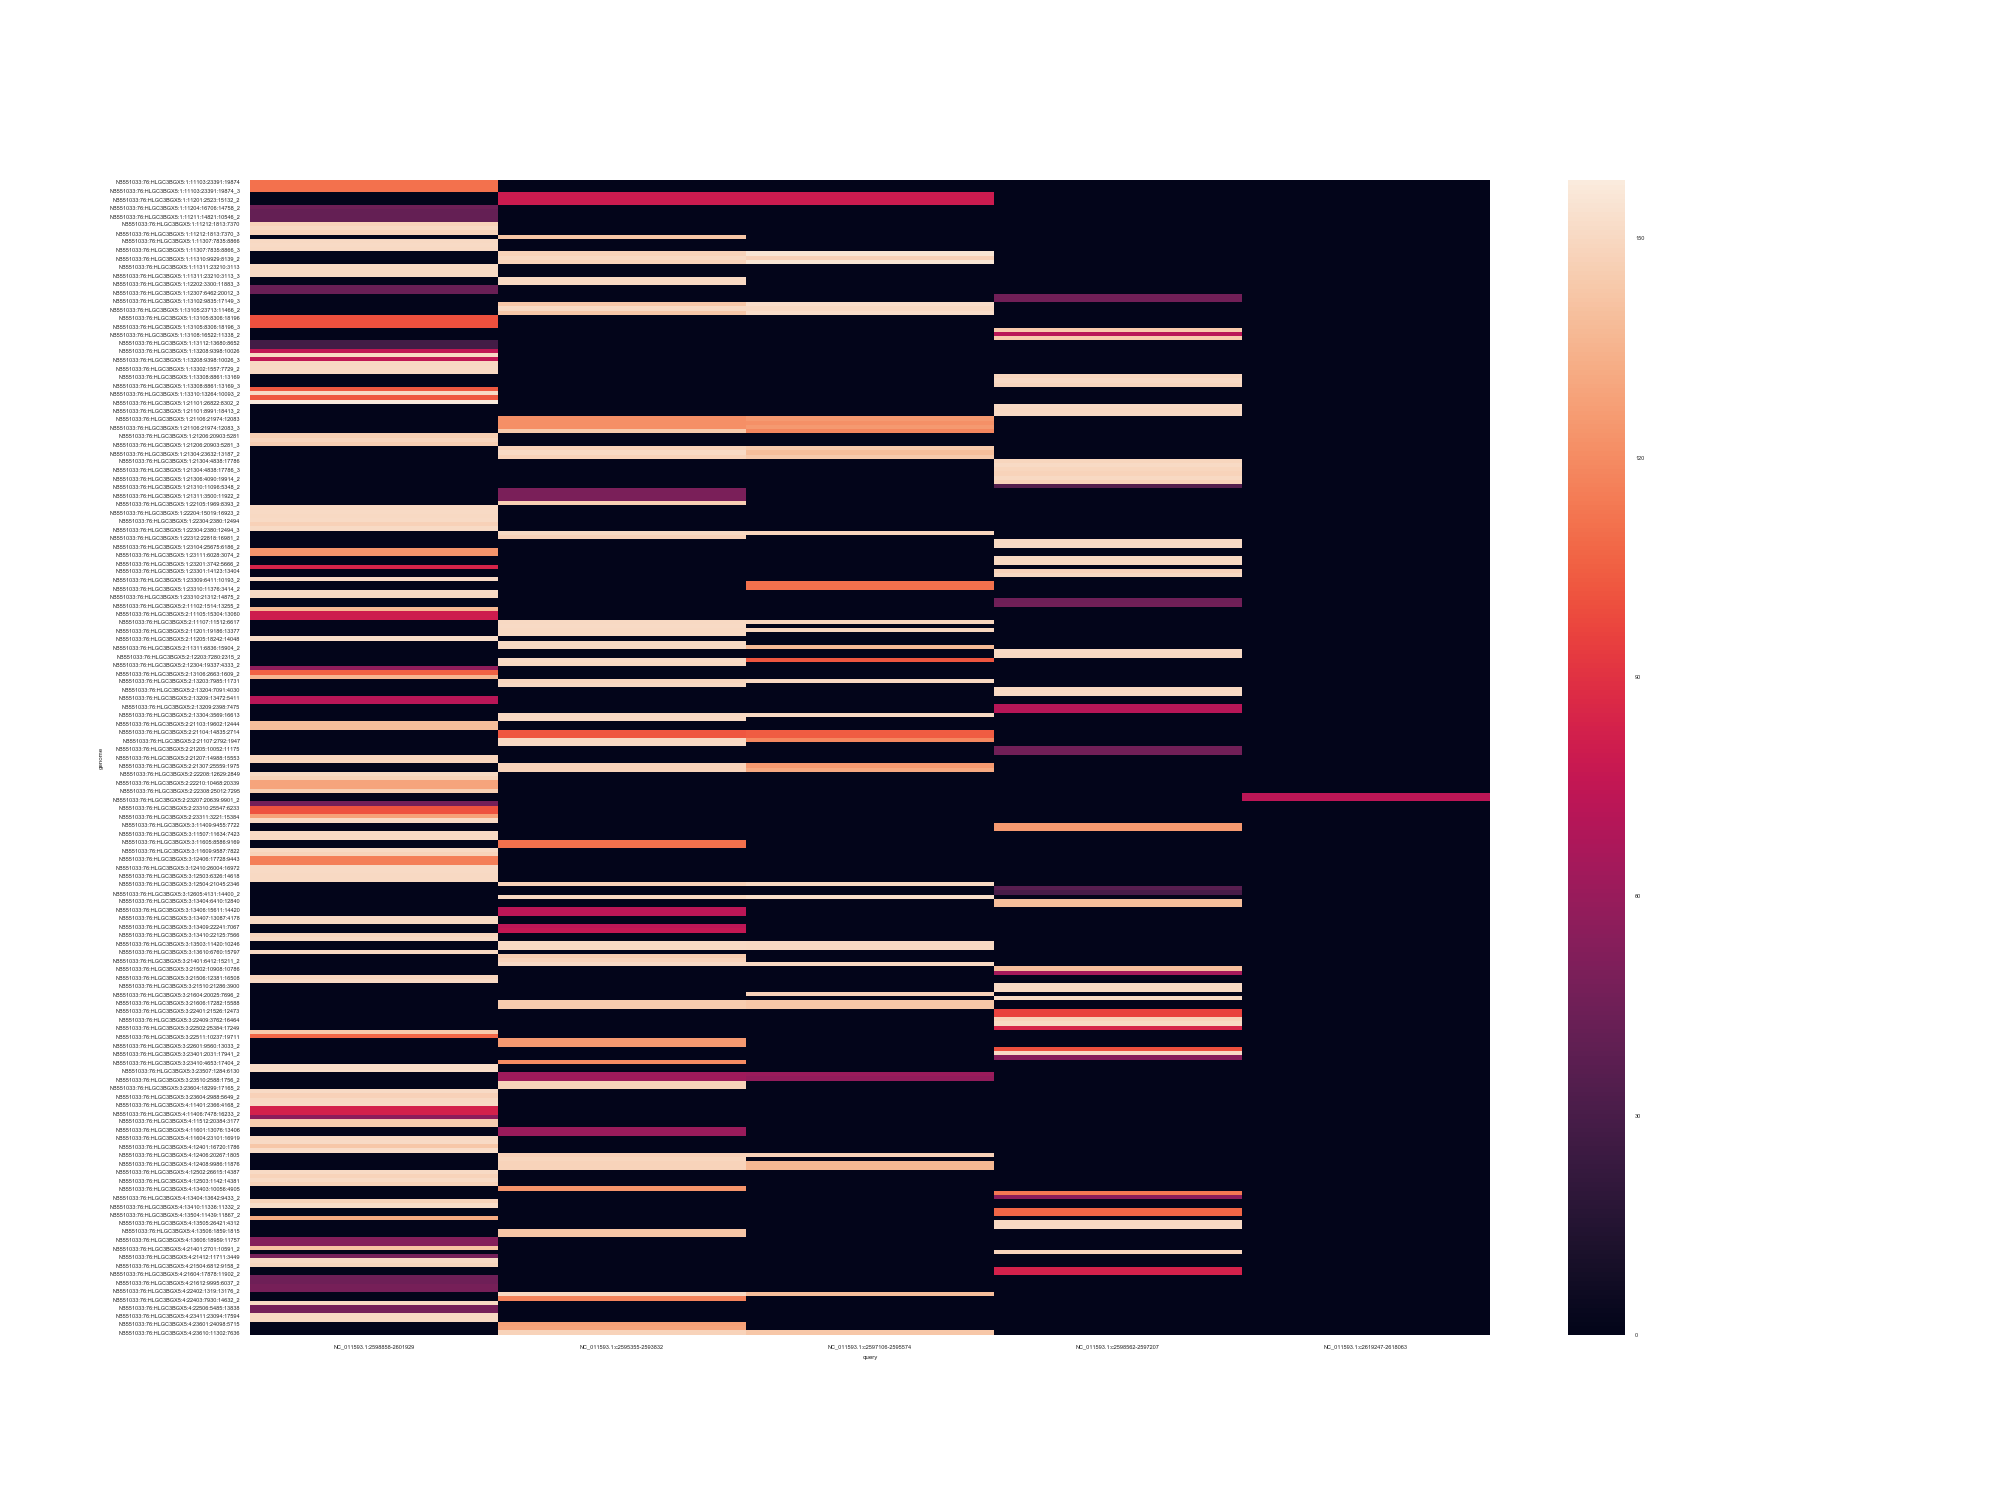
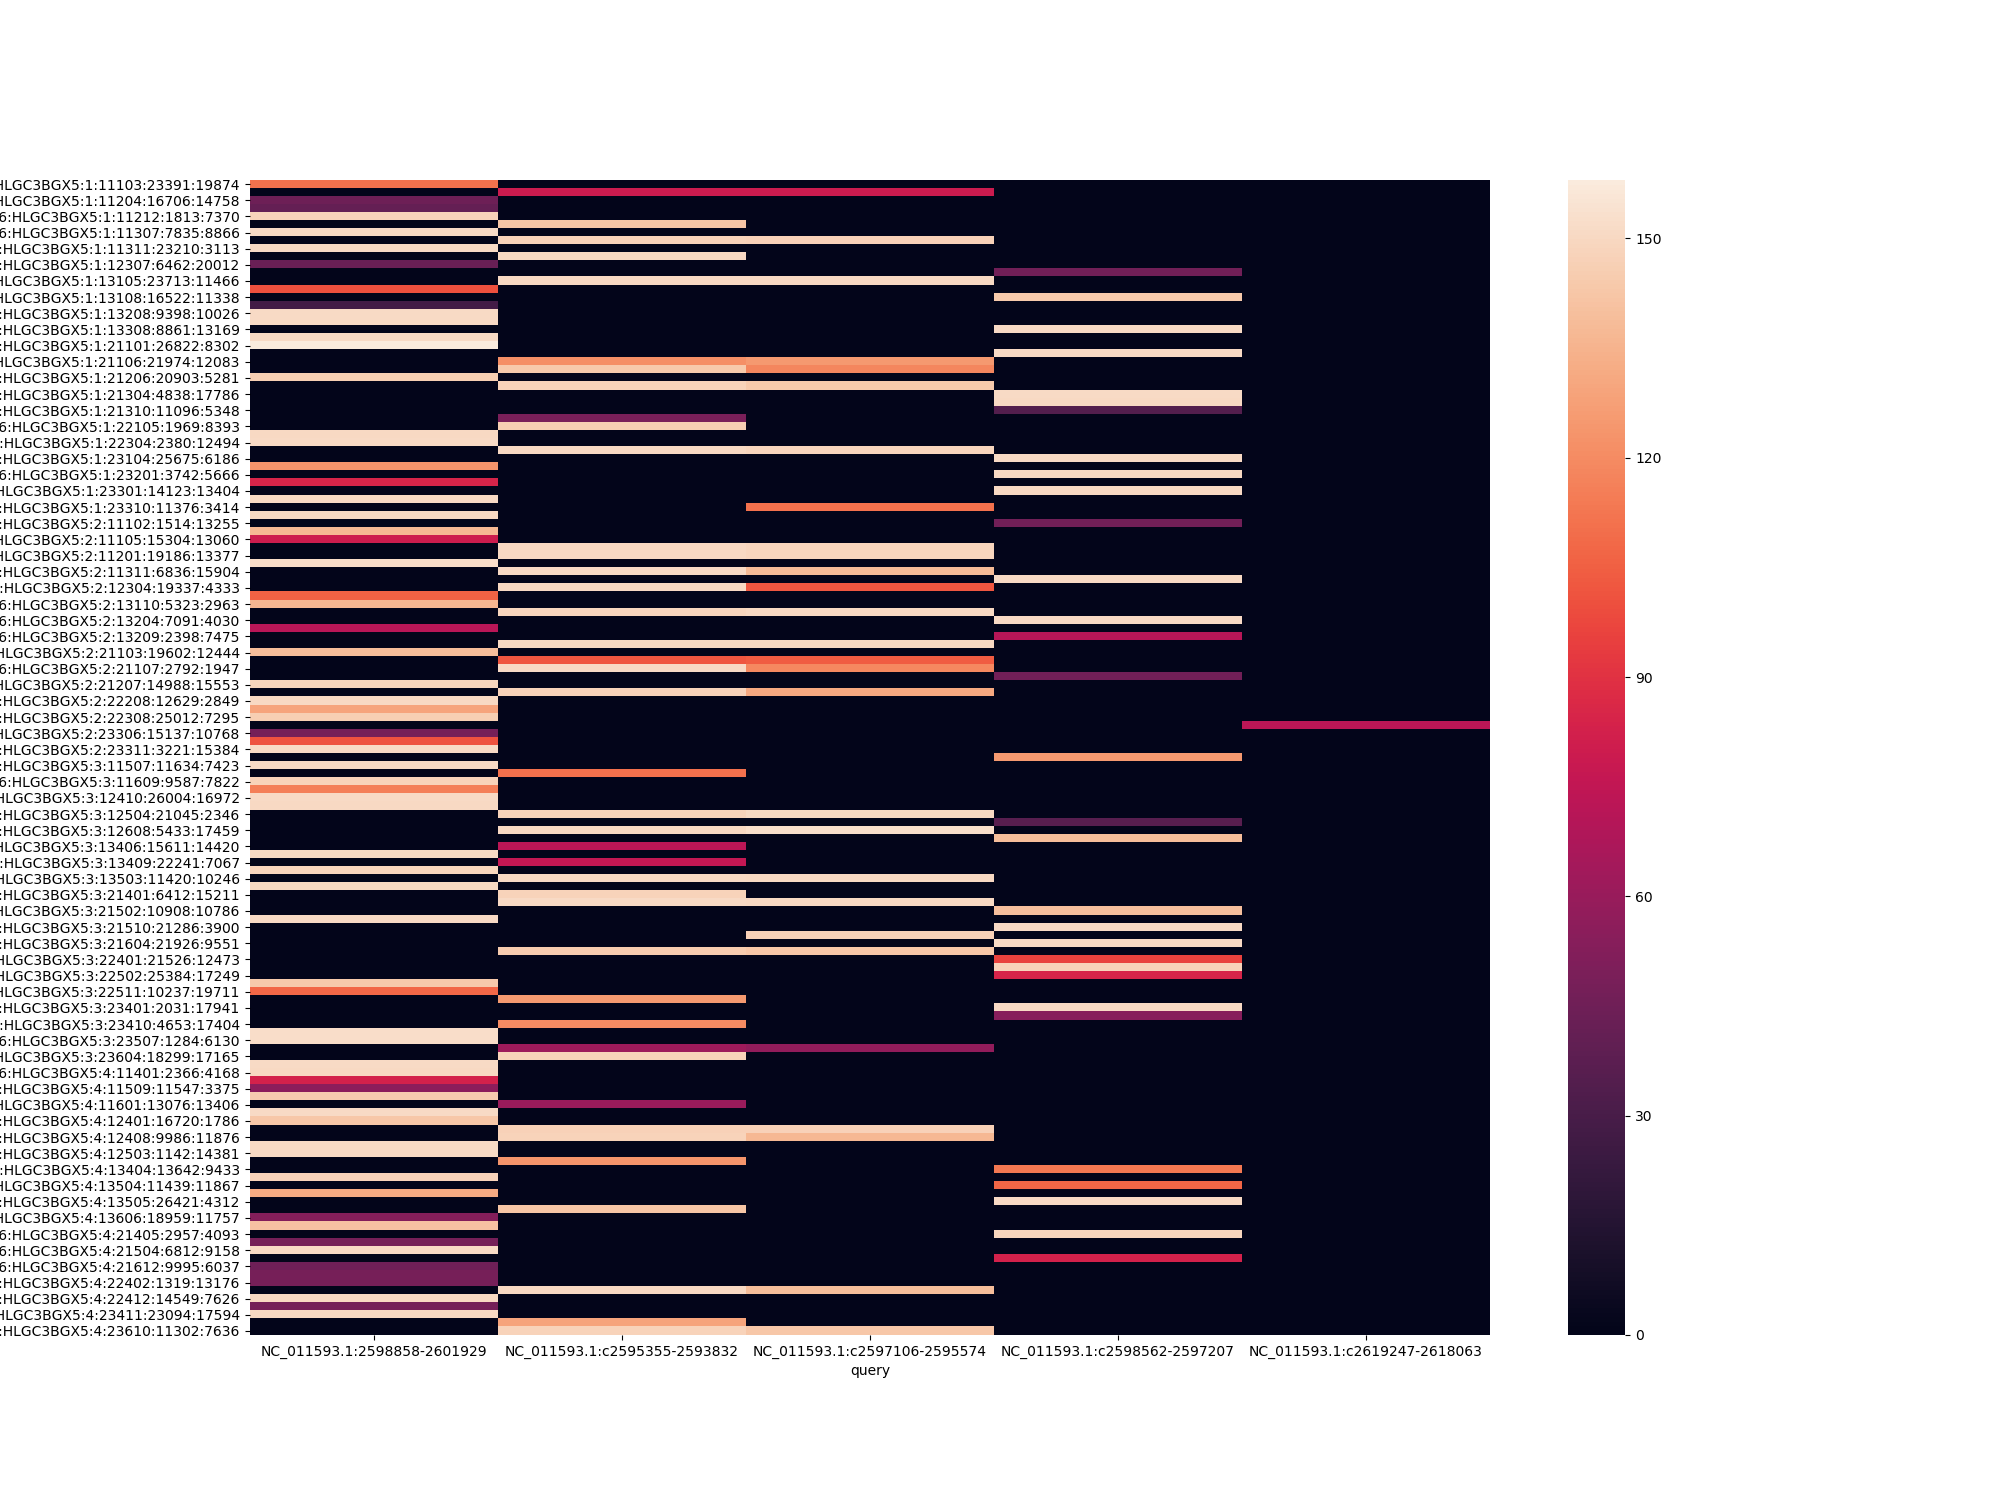
final updates

Changed region(s): [[0.0, 0.1227, 0.744, 0.92], [0.651, 0.8893, 0.744, 0.92], [0.527, 0.8893, 0.589, 0.92]]

diff --git a/scripts/blast/blast_echo.py b/scripts/blast/blast_echo.py
@@ -4,11 +4,11 @@ import numpy as np
 import seaborn as sns
 import matplotlib.pyplot as plt
 
-cols = ["query", "genome", "identity", "alignment_length", "mismatches", "gaps", \
-        "q_start", "q_end", "s_start", "s_end", "evalue", "bit_score"]
-
 # read in blast output in a tabular format
 f = open("/Users/laurentso/Desktop/repos/bifido/scripts/blast/output/blast_output_fmt", "r")
+
+cols = ["query", "genome", "identity", "alignment_length", "mismatches", "gaps", \
+        "q_start", "q_end", "s_start", "s_end", "evalue", "bit_score"]
 
 matchDict = {}
 for line in f.readlines():
@@ -34,9 +34,15 @@ for query in matchDict.keys():
                 if genome[0]+"!"+query not in filterDict:
                         filterDict[genome[0]+"!"+query] = int(genome[1]["length"])
 
-queries = [key.split("!")[1] for key in filterDict.keys()]
-genomes = [key.split("!")[0] for key in filterDict.keys()]
-lengths = [length for length in filterDict.values()]
+broadDict = {}
+for genome_query in filterDict.keys():
+        if genome_query.split("!")[0].split("_")[0]+"!"+genome_query.split("!")[1] not in broadDict:
+                broadDict[genome_query.split("!")[0].split("_")[0]+"!"+genome_query.split("!")[1]] = \
+                        filterDict[genome_query]
+
+queries = [key.split("!")[1] for key in broadDict.keys()]
+genomes = [key.split("!")[0] for key in broadDict.keys()]
+lengths = [length for length in broadDict.values()]
 
 df = pd.DataFrame(np.nan, index = range(0,len(queries)), columns = ["query", "genome", "length"])
 df["query"] = queries
@@ -44,6 +50,8 @@ df["genome"] = genomes
 df["length"] = lengths
 
 df_pivot = df.pivot_table(index="genome", columns="query", values="length")
+
+df_pivot.to_csv("output/df_pivot.csv", setp = '\t')
 
 df_pivot.fillna(value=0, inplace=True)
 plt.subplots(figsize=(20,15))
